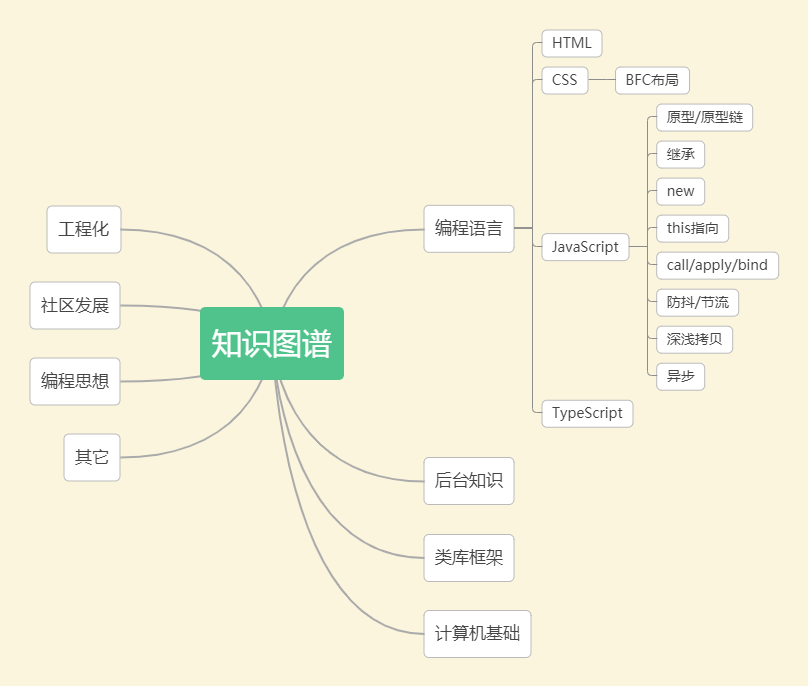
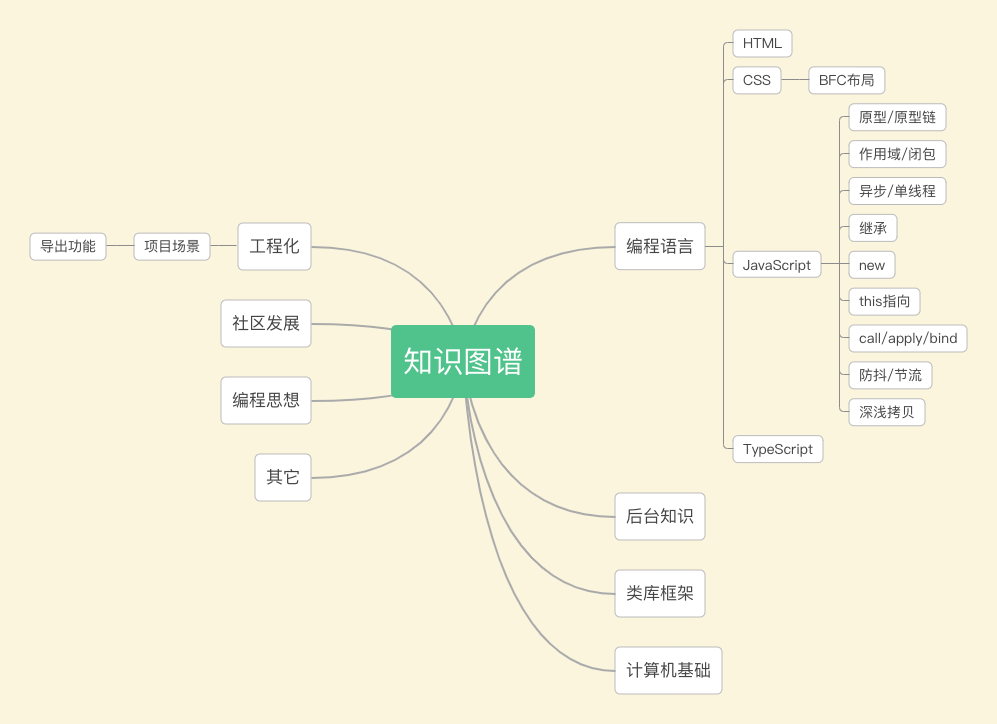
docs: 导出文件

diff --git a/Engineering/ProjectScene/导出功能.md b/Engineering/ProjectScene/导出功能.md
@@ -1,0 +1,154 @@
+### 后台返回文件链接
+
+```
+function downLoad(fileUrl,fileName) {
+    let aEle = document.createElement("a"); // 创建a标签
+    aEle.download = fileName; // 设置下载文件的文件名
+    aEle.href = fileUrl; // fileUrl为后台返回的下载地址
+    aEle.click(); // 设置点击事件
+}
+
+let URL = 'XXXX' //下载地址
+downLoad(URL ,'test.xlxs')
+```
+
+### 后台返回二进制数据
+
+首先我们要设置服务器的响应数据类型为blob，以配置axios为例
+
+```
+export function export(params) {
+    return service.get('接口地址', {
+        params,
+        responseType: 'blob'
+    })
+}
+```
+
+然后利用new Blob()来处理二进制数据，生成一文件，再用createObjectURL()创建链接后，用a链接自动下载
+
+```
+function exportFile(blob, name) {
+    const blob = new Blob([blob]);
+    // const blob = new Blob([blob], { type: 'application/vnd.ms-excel' }); // type 为需要导出的文件类型，此处为xls表格类型
+    // 兼容不同浏览器的URL对象
+    const url = window.URL || window.webkitURL || window.moxURL;
+    // 创建下载链接
+    const downloadHref = url.createObjectURL(blob);
+    // 创建a标签并为其添加属性
+    let aEle = document.createElement('a');
+    aEle.setAttribute('href', downloadHref);
+    aEle.setAttribute('download', name);
+    aEle.style.display = 'none';
+    document.body.appendChild(aEle);
+    aEle.click();
+    document.body.removeChild(aEle);
+    // 释放下载链接
+    url.revokeObjectURL(downloadHref);
+}
+```
+
+不熟悉Blob的可以看这里，[Blob](https://developer.mozilla.org/zh-CN/docs/Web/API/Blob)
+
+常用的MIME类型如下:
+
+后缀名 | MIME名称
+--- | ---
+*.csv | text/csv
+*.doc | application/msword
+*.dot | application/msword
+*.xls | application/vnd.ms-excel
+*.xlsx | application/vnd.openxmlformats-officedocument.spreadsheetml.sheet
+
+### json数据导出Excel
+
+这里要借助xlsx和file-saver两个插件实现。其中xlsx是生成Excel文件，file-save是保存下载Excel文件
+
+- [xlsx](https://github.com/SheetJS/sheetjs)
+- [file-saver](https://github.com/eligrey/FileSaver.js)
+
+### PDF导出
+
+需要借助jspdf和html2canvas
+
+```
+import html2canvas from "html2canvas";
+import jspdf from "jspdf";
+
+async function htmlToPdf(title = "文件", elId) {
+  if (!elId) {
+    console.error("导出节点不存在！");
+    return;
+  }
+
+  // 将html dom节点生成canvas
+  let htmlCanvas = await getCanvasByHtmlId(elId);
+  // 将canvas对象转为pdf
+  let pdf = canvasToPdf(htmlCanvas);
+  // 通过浏览器下载pdf
+  downPdf(pdf, title);
+}
+
+async function getCanvasByHtmlId(elId) {
+  let canvas = await html2canvas(document.getElementById(elId), {
+    scale: 2,
+    useCORS: true,
+    allowTaint: true,
+    taintTest: false,
+    imageTimeout: 0
+  }).then(canvas => {
+    return canvas;
+  });
+
+  return canvas;
+}
+
+
+function canvasToPdf(htmlCanvas) {
+  let canvasWidth = htmlCanvas.width;
+  let canvasHeight = htmlCanvas.height;
+  let imgBase64 = htmlCanvas.toDataURL("image/jpeg", 1.0);
+
+  //a4纸的尺寸[595.28,841.89]，html页面生成的canvas在pdf中图片的宽高
+  let imgWidth = 595.28;
+  //图片高度需要等比缩放
+  let imgHeight = 595.28 / canvasWidth * canvasHeight;
+
+  let pageHeight = imgHeight; //pdf转化后页面总高度
+  let position = 0;
+
+  let pdfInstance = new jspdf("", "pt", "a4");
+  pdfInstance.setFontSize(12);
+
+  if (imgHeight < 841.89) {
+    pdfInstance.addImage(imgBase64, "JPEG", 0, 0, imgWidth, imgHeight);
+  } else {
+    while (pageHeight > 0) {
+      pdfInstance.addImage(imgBase64, "JPEG", 0, position, imgWidth, imgHeight);
+      pageHeight -= 841.89;
+      position -= 841.89;
+      if (pageHeight > 0) {
+        pdfInstance.addPage();
+      }
+    }
+  }
+
+  return pdfInstance;
+}
+
+function downPdf(pdfInstance, title) {
+  // 文件名过长导致下载失败
+  if (title.length > 50) {
+    title = title.substring(title.length - 50);
+  }
+
+  pdfInstance.save(title + ".pdf", { returnPromise: true }).then(function() {
+    //搜狗浏览器下载机制问题暂时不关闭
+    if (!(navigator.userAgent.toLowerCase().indexOf("se 2.x") > -1)) {
+      setTimeout(window.close, 300);
+    }
+  });
+}
+
+export default htmlToPdf;
+```

diff --git a/README.md b/README.md
@@ -27,3 +27,9 @@
 - [防抖与节流](Language/JavaScript/防抖与节流.md)
 - [深浅拷贝](Language/JavaScript/深浅拷贝.md)
 - [异步](Language/JavaScript/异步.md)
+
+### 工程化
+
+#### 项目场景
+
+- [导出功能](Engineering/ProjectScene/导出功能.md)
